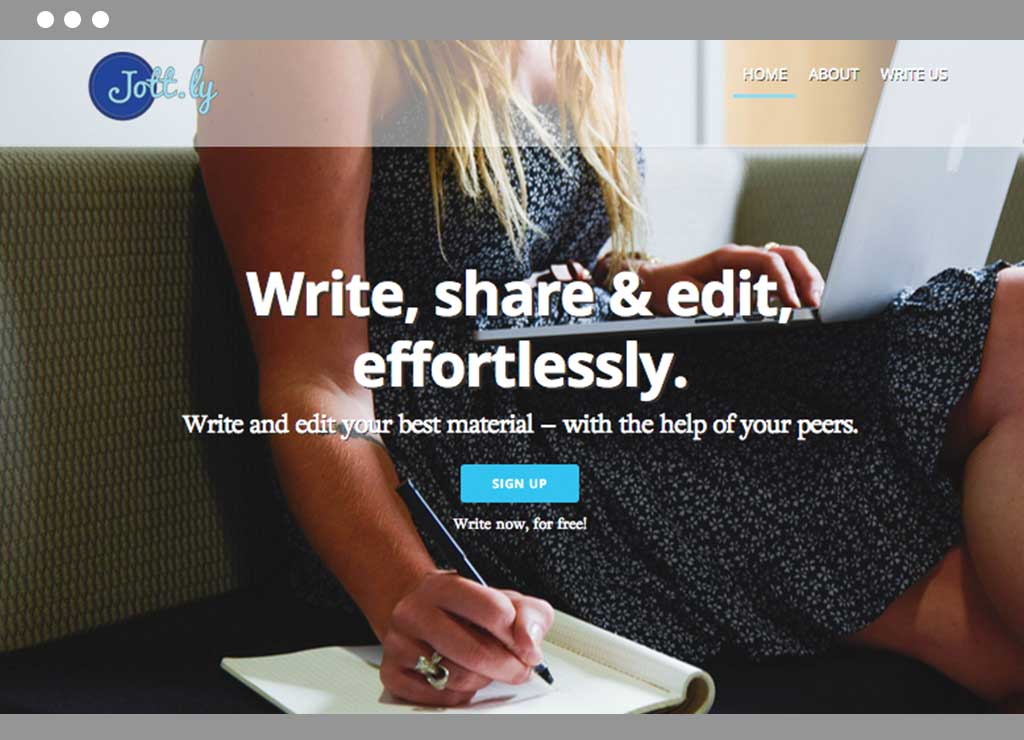
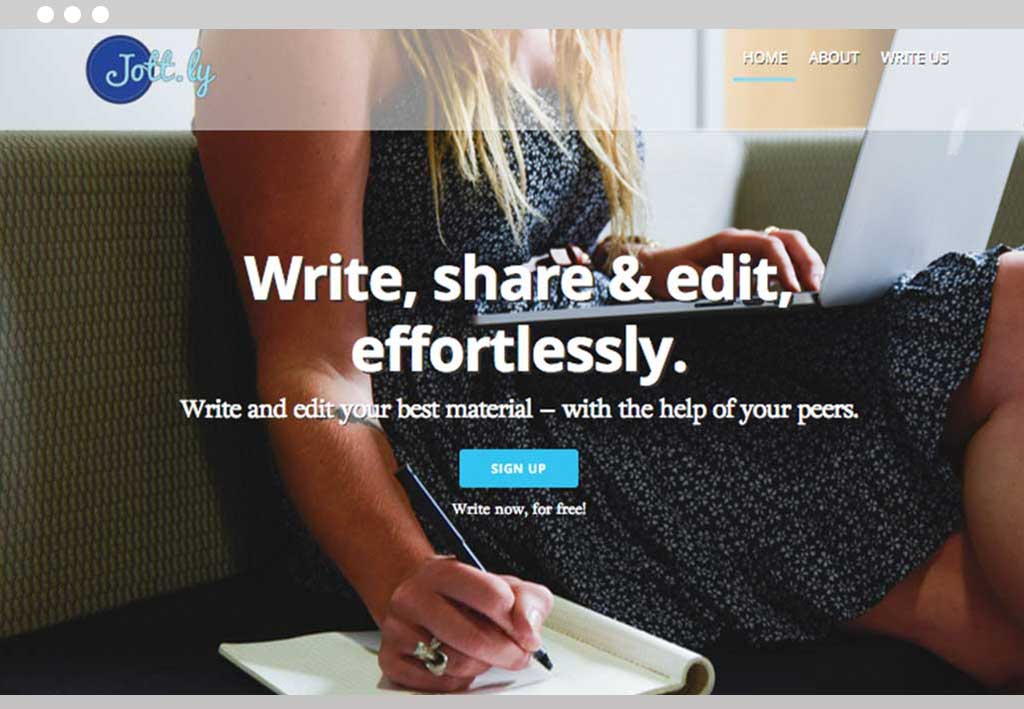
Salvage Scheme Case Study

diff --git a/salvagescheme.html b/salvagescheme.html
@@ -1,0 +1,123 @@
+<!doctype html>
+<html class="no-js" lang="en">
+  <head>
+    <meta charset="utf-8" />
+    <meta name="viewport" content="width=device-width, initial-scale=1.0" />
+    <title>Marta Fieweger | UX Design & Other Things</title>
+    <link rel="icon" type="image/png" href="images/MF_Favicon.png" />
+    <link rel="stylesheet" href="stylesheets/app.css" />
+    <link rel="stylesheet" href="stylesheet/stylesheet.css" type="text/css" charset="utf-8" /> 
+    <link href='http://fonts.googleapis.com/css?family=Lato:400,700|Oswald' rel='stylesheet' type='text/css'>
+    <script src="bower_components/modernizr/modernizr.js"></script>
+    <script src="//use.typekit.net/sek6jxv.js"></script>
+    <script>try{Typekit.load();}catch(e){}</script>
+  </head>
+  <body>
+    <!--Header-->
+        <div class="contain-to-grid sticky">
+          <nav class="top-bar" data-topbar role="navigation" data-options="sticky_on: [medium,large]">
+           <ul class="title-area">
+                <li class="name">
+                  <h3><a href="#">MARTA H. FIEWEGER</a></h3>
+                </li>
+                <li class="toggle-topbar menu-icon"><a href="#"><span></span></a></li>
+              </ul>
+
+              <section class="top-bar-section">
+                <!-- Right Nav Section -->
+                <ul class="right">
+                      <li><a href="#">WORK</a></li>
+                      <li><a href="#">ABOUT</a></li>
+                      <li><a href="#">CONTACT</a></li>
+                </ul>
+          </nav>
+        </div>
+<!--Header End-->
+
+<!--Project Image -->
+    <div class="row">
+        <div class="small-8 small-centered columns" id="project">
+            <h1>SALVAGE SCHEME <span>lifestyle blog</span></h1>
+        </div>
+    </div>
+<!--Project Image End -->
+
+<div class="container">
+    <div class="row">
+        <div class="small-11 small-centered columns">
+             <div class="row">
+                <div class="large-8 columns">
+                    <h4>summary</h4>
+                    <p>With professional photographs of unrealistically picturesque life moments, outfits that were probably borrowed from the runway, and overly styled, probably inedible food, lifestyle blogs are largely devoid of content pertaining to the non-glamorous lifestyle. The Salvage Scheme attempts to eliminate this hole, giving readers ideas for infusing creativity and salvaged cool into their own daily existence with fewer monetary restrictions. Make good with what you have.</p>
+
+                    <h4>branding & identity</h4>
+                    <p>The Salvage Scheme has a casual albeit classic identity. It provides non-fussy, sometimes oddly creative material to readers, and strives to instill creative bursts in whomever might be browsing the web that day, despite their supposed creative ability.</p>
+                    <p>That being said, the Salvage Scheme's content should be the focal point. With minimal design and a black and white color palette, a backdrop for colorful content is set. I used the Foodie Wordpress theme by Shay Bocks to acheive this design concept.</p>
+                    <p>Photos are tinged with clean, cool filters or taken with similar lighting. Verbal content is humorous but substantial, with encouraging, sometimes comic, honesty.</p>
+
+                    <h4>blog content</h4>
+                    <p>The Salvage Scheme's content takes the form of sartorial styling, home decor projects, impromptu cooking/recipe concoctions, and brief life essays. None of it is fancy, and almost all of it is repurposed.</p>
+                </div>
+                <div class="large-4 columns">
+                    <img id="ss" src="images/SS_Dish.jpg">
+                </div>
+            </div>
+        </div>
+    </div>
+    
+
+<div id="user_research">
+  <div class="row">
+    <div class="large-11 large-centered columns small-11 small-centered columns">
+            <span>project photos</span>
+            <ul class="small-block-grid-4" id="block">
+              <li><img src="images/SS_RedBench.jpg"></li>
+              <li><img src="images/SS_Editorial.jpg"></li>
+              <li><img src="images/SS_Craft.jpg"></li>
+              <li><img src="images/SS_Food.jpg"></li>
+            </ul>  
+    </div>
+  </div>
+
+  <div id="user_research">
+  <div class="row">
+    <div class="large-11 large-centered columns small-11 small-centered columns">
+            <span>blog views</span>
+              <img id="vic" src="images/SS_Vic.jpg">
+              <img src="images/Salvage_Main.jpg"> 
+    </div>
+  </div>  
+</div>
+    <div class="row" id="ss_final">
+        <div class="small-11 small-centered columns">
+             <div class="row">
+                <div class="large-8 columns">
+                    <h4>current state</h4>
+                    <p>The Salvage Scheme is still an in-progress entity. It'll be around for a while yet.</p>
+                    <a href="#">visit the site</a>
+                </div>
+                <div class="large-4 columns">
+                </div>
+            </div>
+        </div>
+    </div>
+
+<!--Footer-->
+<footer class="container" id="footer">
+    <div class="row">
+        <h5>THINK YOU MIGHT WANT TO PARTNER UP?</h5>
+    </div>
+    <div class="row">
+        <a href="#">contact me</a>
+    </div>
+    <div class="large-3 large-centered small-7 small-centered columns">
+        <h6>designed & developed by yours truly // &copy 2015</h6>
+    </div>
+</footer>
+<!--Footer End-->
+    <script src="bower_components/jquery/dist/jquery.min.js"></script>
+    <script src="bower_components/foundation/js/foundation.min.js"></script>
+    <script src="js/app.js"></script>
+    <script src="js/foundation/foundation.topbar.js"></script>
+  </body>
+</html>

diff --git a/jottly.html b/jottly.html
@@ -133,7 +133,7 @@
     </div>
   <div class="row">
     <div class="large-7 large-centered columns small-11 small-centered columns">
-            <img src="images/Jott.ly_Mockup.jpg">
+            <img id="splash" src="images/Jott.ly_Mockup.jpg">
         </div>
    </div>
 </div>
@@ -145,8 +145,9 @@
                     <h4>final product</h4>
                     <a href="#">view the live project</a>
                     <br>
+                    <br>
                     <p class>In developing the live landing page, I altered the color distribution slightly. Rather than overlaying each photo with a light blue, I chose to display the natural colors of the hero and footer photos; the photos' untouched appearance embodied a basic freshness illustrative of the Jott.ly brand and product.</p>
-                    <p class="final">Overall, this project was an essential exercise in marketing and content writing – two skills that are oft overlooked in the design world. As designers, our responsibility is to accurately embody the client's brand in a compelling way, one that resonates with users and ultimately incites action in associating with the product or brand. Solid UI is rendered somewhat useless of the content on the page isn't equally, if not more, engaging.</p>
+                    <p class="final">Overall, this project was an essential exercise in marketing and content writing – two skills that are oft overlooked in the design world. As designers, our responsibility is to accurately embody the client's brand in a compelling way, one that resonates with users and ultimately incites action in associating with the product or brand. Solid UI is rendered somewhat useless if the content on the page isn't equally, if not more, engaging.</p>
                 </div>
                 <div class="large-4 columns">
                    

diff --git a/stylesheets/app.css b/stylesheets/app.css
@@ -9627,6 +9627,31 @@ ul#foot_nav li a:hover {
   margin-top: 20px;
 }
 
+/* line 437, ../scss/_overrides.scss */
+#splash {
+  margin-top: 20px;
+}
+
+/* line 441, ../scss/_overrides.scss */
+#ss {
+  margin-top: 50px;
+}
+
+/* line 445, ../scss/_overrides.scss */
+#block {
+  margin-top: 20px;
+}
+
+/* line 449, ../scss/_overrides.scss */
+#vic {
+  margin-top: 20px;
+}
+
+/* line 453, ../scss/_overrides.scss */
+#ss_final {
+  margin-bottom: 80px;
+}
+
 @font-face {
   font-family: "bebasregular";
   src: url('/fonts/bebas___-webfont-webfont.eot?1430157430');

diff --git a/scss/_overrides.scss b/scss/_overrides.scss
@@ -433,3 +433,25 @@ ul#foot_nav
 #jott {
   margin-top: 20px;
 }
+
+#splash {
+  margin-top: 20px;
+}
+
+#ss {
+  margin-top: 50px;
+}
+
+#block {
+  margin-top: 20px;
+}
+
+#vic {
+  margin-top: 20px;
+}
+
+#ss_final {
+  margin-bottom: 80px;
+}
+
+
